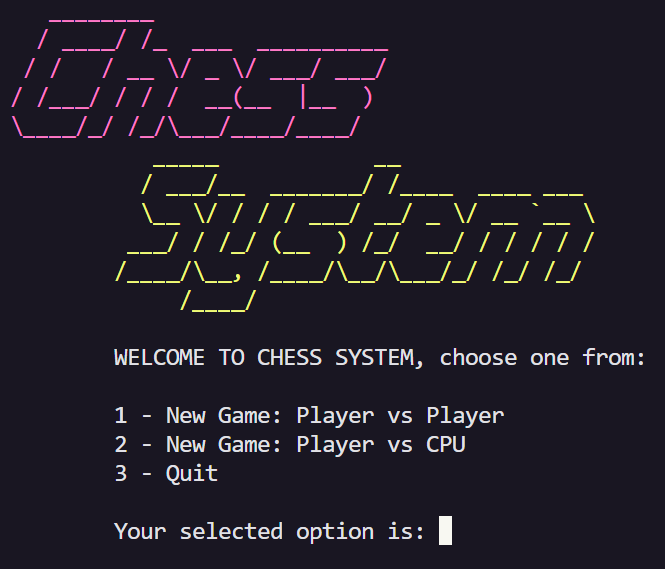
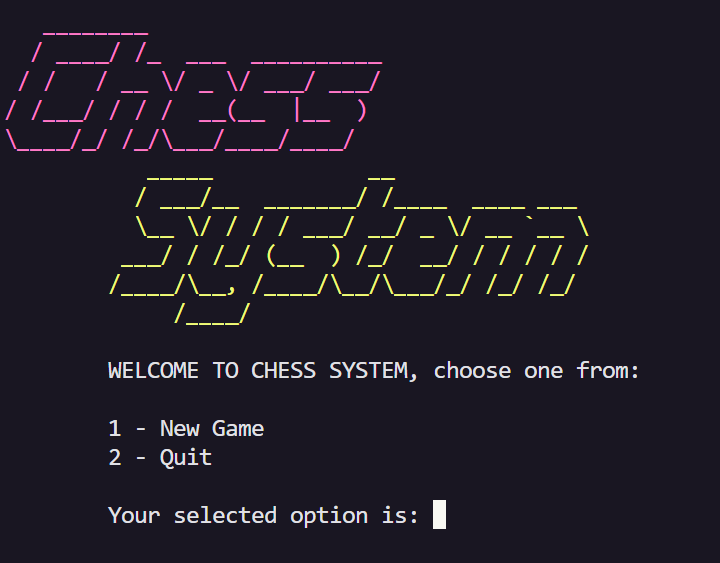
Finishing the Project - Fixing castling, removing not developed features and improving README

diff --git a/src/chess/ChessMatch.java b/src/chess/ChessMatch.java
@@ -76,19 +76,19 @@ public class ChessMatch {
      validateTargetPosition(source, target);
      Piece capturedPiece = makeMove(source, target);
 
-     if (testCheck(currentPlayer)){
+     if (testCheck(currentPlayer) || testIllegalCastling(source, target)){
          undoMove(source, target, capturedPiece);
          throw new ChessException("You can't put yourself in check");
      }
 
-     ChessPiece movedPiece = (ChessPiece)board.piece(target);
+     ChessPiece movedPiece = (ChessPiece) board.piece(target);
 
      promoted = null;
      if (movedPiece instanceof Pawn){
-         if((movedPiece.getColor() == Color.WHITE && target.getRow() == 0) || (movedPiece.getColor() == Color.BLACK && target.getRow() == 7)){
-             promoted = (ChessPiece)board.piece(target);
+         if ((movedPiece.getColor() == Color.WHITE && target.getRow() == 0)
+                 || (movedPiece.getColor() == Color.BLACK && target.getRow() == 7)) {
+             promoted = (ChessPiece) board.piece(target);
              promoted = replacePromotedPiece("Q");
-
          }
      }
 
@@ -109,6 +109,31 @@ public class ChessMatch {
      }
 
      return (ChessPiece)capturedPiece;
+    }
+
+    private boolean testIllegalCastling(Position source, Position target) {
+        ChessPiece movedPiece = (ChessPiece)board.piece(target);
+        boolean isIllegal = false;
+
+        // position in-between
+        Position inBetween = new Position(source.getRow(),
+                (source.getColumn()>target.getColumn()) ? source.getColumn() - 1 : target.getColumn() - 1);
+
+        // identifies if a king has moved
+        if (movedPiece instanceof King) {
+            // indentifies if a king has castled, once it moved two squares away
+            if (Math.abs(source.getColumn() - target.getColumn()) == 2) {
+                // checks if the position passed through by the king is attacked
+                Piece capturedPiece = makeMove(target, inBetween);
+
+                if (testCheck(currentPlayer)) {
+                    isIllegal = true;
+                }
+
+                undoMove(target, inBetween, capturedPiece);
+            }
+        }
+        return isIllegal;
     }
 
     public ChessPiece replacePromotedPiece(String type){
@@ -340,4 +365,5 @@ public class ChessMatch {
         placeNewPiece('g', 7, new Pawn(board, Color.BLACK, this));
         placeNewPiece('h', 7, new Pawn(board, Color.BLACK, this));
     }
+
 }

diff --git a/src/application/Program.java b/src/application/Program.java
@@ -1,7 +1,5 @@
 package application;
 
-import chess.ChessException;
-
 import java.io.IOException;
 import java.util.Scanner;
 
@@ -30,22 +28,17 @@ public class Program {
 
             System.out.println("\n\n\tWELCOME TO CHESS SYSTEM, choose one from:");
             System.out.println();
-            System.out.println("\t1 - New Game: Player vs Player");
-            System.out.println("\t2 - New Game: Player vs CPU");
-            System.out.println("\t3 - Quit");
+            System.out.println("\t1 - New Game");
+            System.out.println("\t2 - Quit");
 
             System.out.print("\n\tYour selected option is: ");
             selection = sc.nextInt();
             switch (selection) {
                 case 1:
                     exit = 1;
-                    Runtime.getRuntime().exec(NewGamePVP.RunGame());
+                    Runtime.getRuntime().exec(NewGame.RunGame());
                     break;
                 case 2:
-                    System.out.print("\tPlayer vs CPU is under development, please, select another option: ");
-                    selection = sc.nextInt();
-                    break;
-                case 3:
                     System.out.println("\tSee ya!");
                     System.exit(0);
                     break;

diff --git a/src/application/UI.java b/src/application/UI.java
@@ -55,7 +55,7 @@ public class UI {
         System.out.println();
         System.out.println("Turn: " + chessMatch.getTurn());
         if (!chessMatch.getCheckMate()){
-            System.out.println("Waiting player: " + chessMatch.getCurrentPlayer());
+                System.out.println("Waiting player: " + chessMatch.getCurrentPlayer());
             if (chessMatch.getCheck()){
                 System.out.println(ANSI_RED_BACKGROUND + "CHECK!!" + ANSI_RESET);
             }

diff --git a/src/application/NewGame.java b/src/application/NewGame.java
@@ -5,13 +5,12 @@ import chess.ChessMatch;
 import chess.ChessPiece;
 import chess.ChessPosition;
 
-import java.security.InvalidParameterException;
 import java.util.ArrayList;
 import java.util.List;
 import java.util.Scanner;
 
 
-public class NewGamePVP {
+public class NewGame {
     public static String[] RunGame() {
         Scanner sc = new Scanner(System.in);
         ChessMatch chessMatch = new ChessMatch();

diff --git a/README.md b/README.md
@@ -4,7 +4,9 @@
 
 This repository is a unpretentious program that allows the user play chess in terminal. 
 
-This project was developed during a java course with only academic goals: apply and improve the acquired knowledge, such as the java basics, object-oriented programming, and best practices.
+This project was developed during a java course of @DevSuperior with only academic goals: apply and improve the acquired knowledge, such as the java basics, object-oriented programming, and best practices.
+
+It was inspired by @acenelio [project](https://github.com/acenelio/chess-system-java).
 
 
 ## Requirements
@@ -44,11 +46,9 @@ If everything is alright, it will open the console menu as the screenshot below:
 
 ![Menu screenshot](src/imgs/menu.png)
 
-Then input the respective number of options.<br>
+Then input the respective number of options:<br>
 "1" and press enter for start the game Player vs Player.<br>
-"2" and press enter for start the game Player vs CPU (in development).<br>
-"3" and press enter for finish the program.
-
+"2" and press enter for finish the program.<br><br>
 If you choose "1" the match will start as the screenshot below:
 
 ![Match screenshot](src/imgs/match.png)
